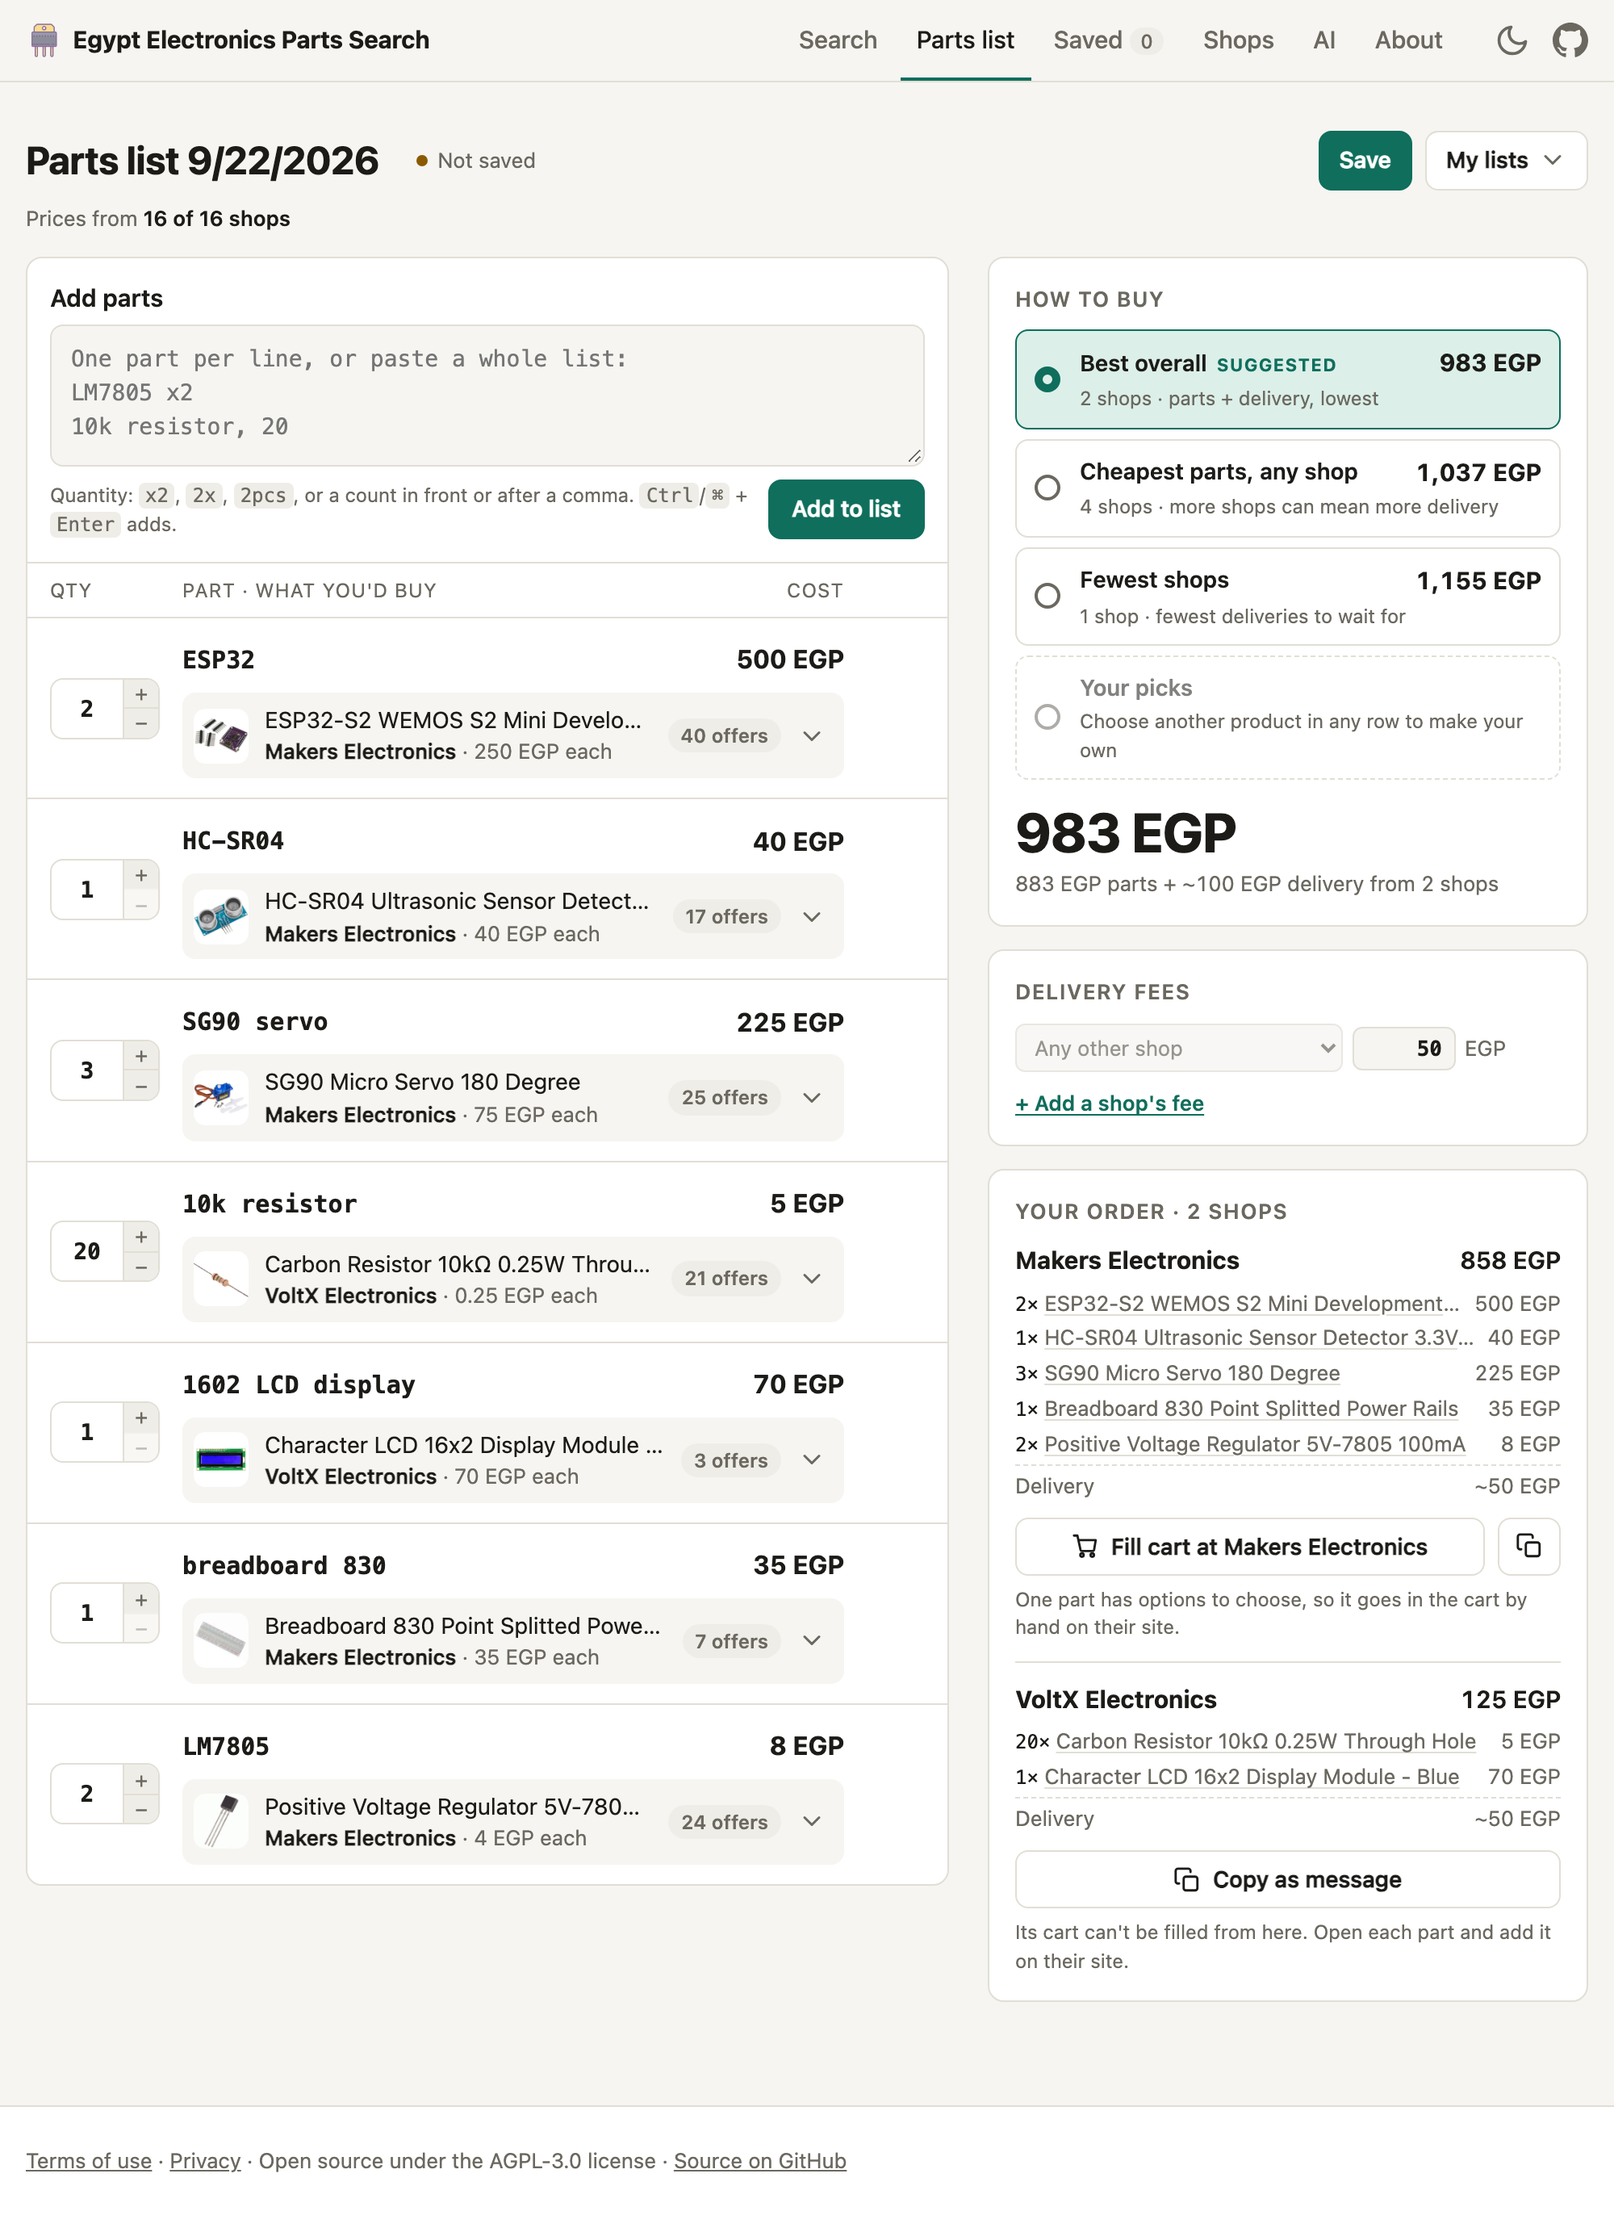
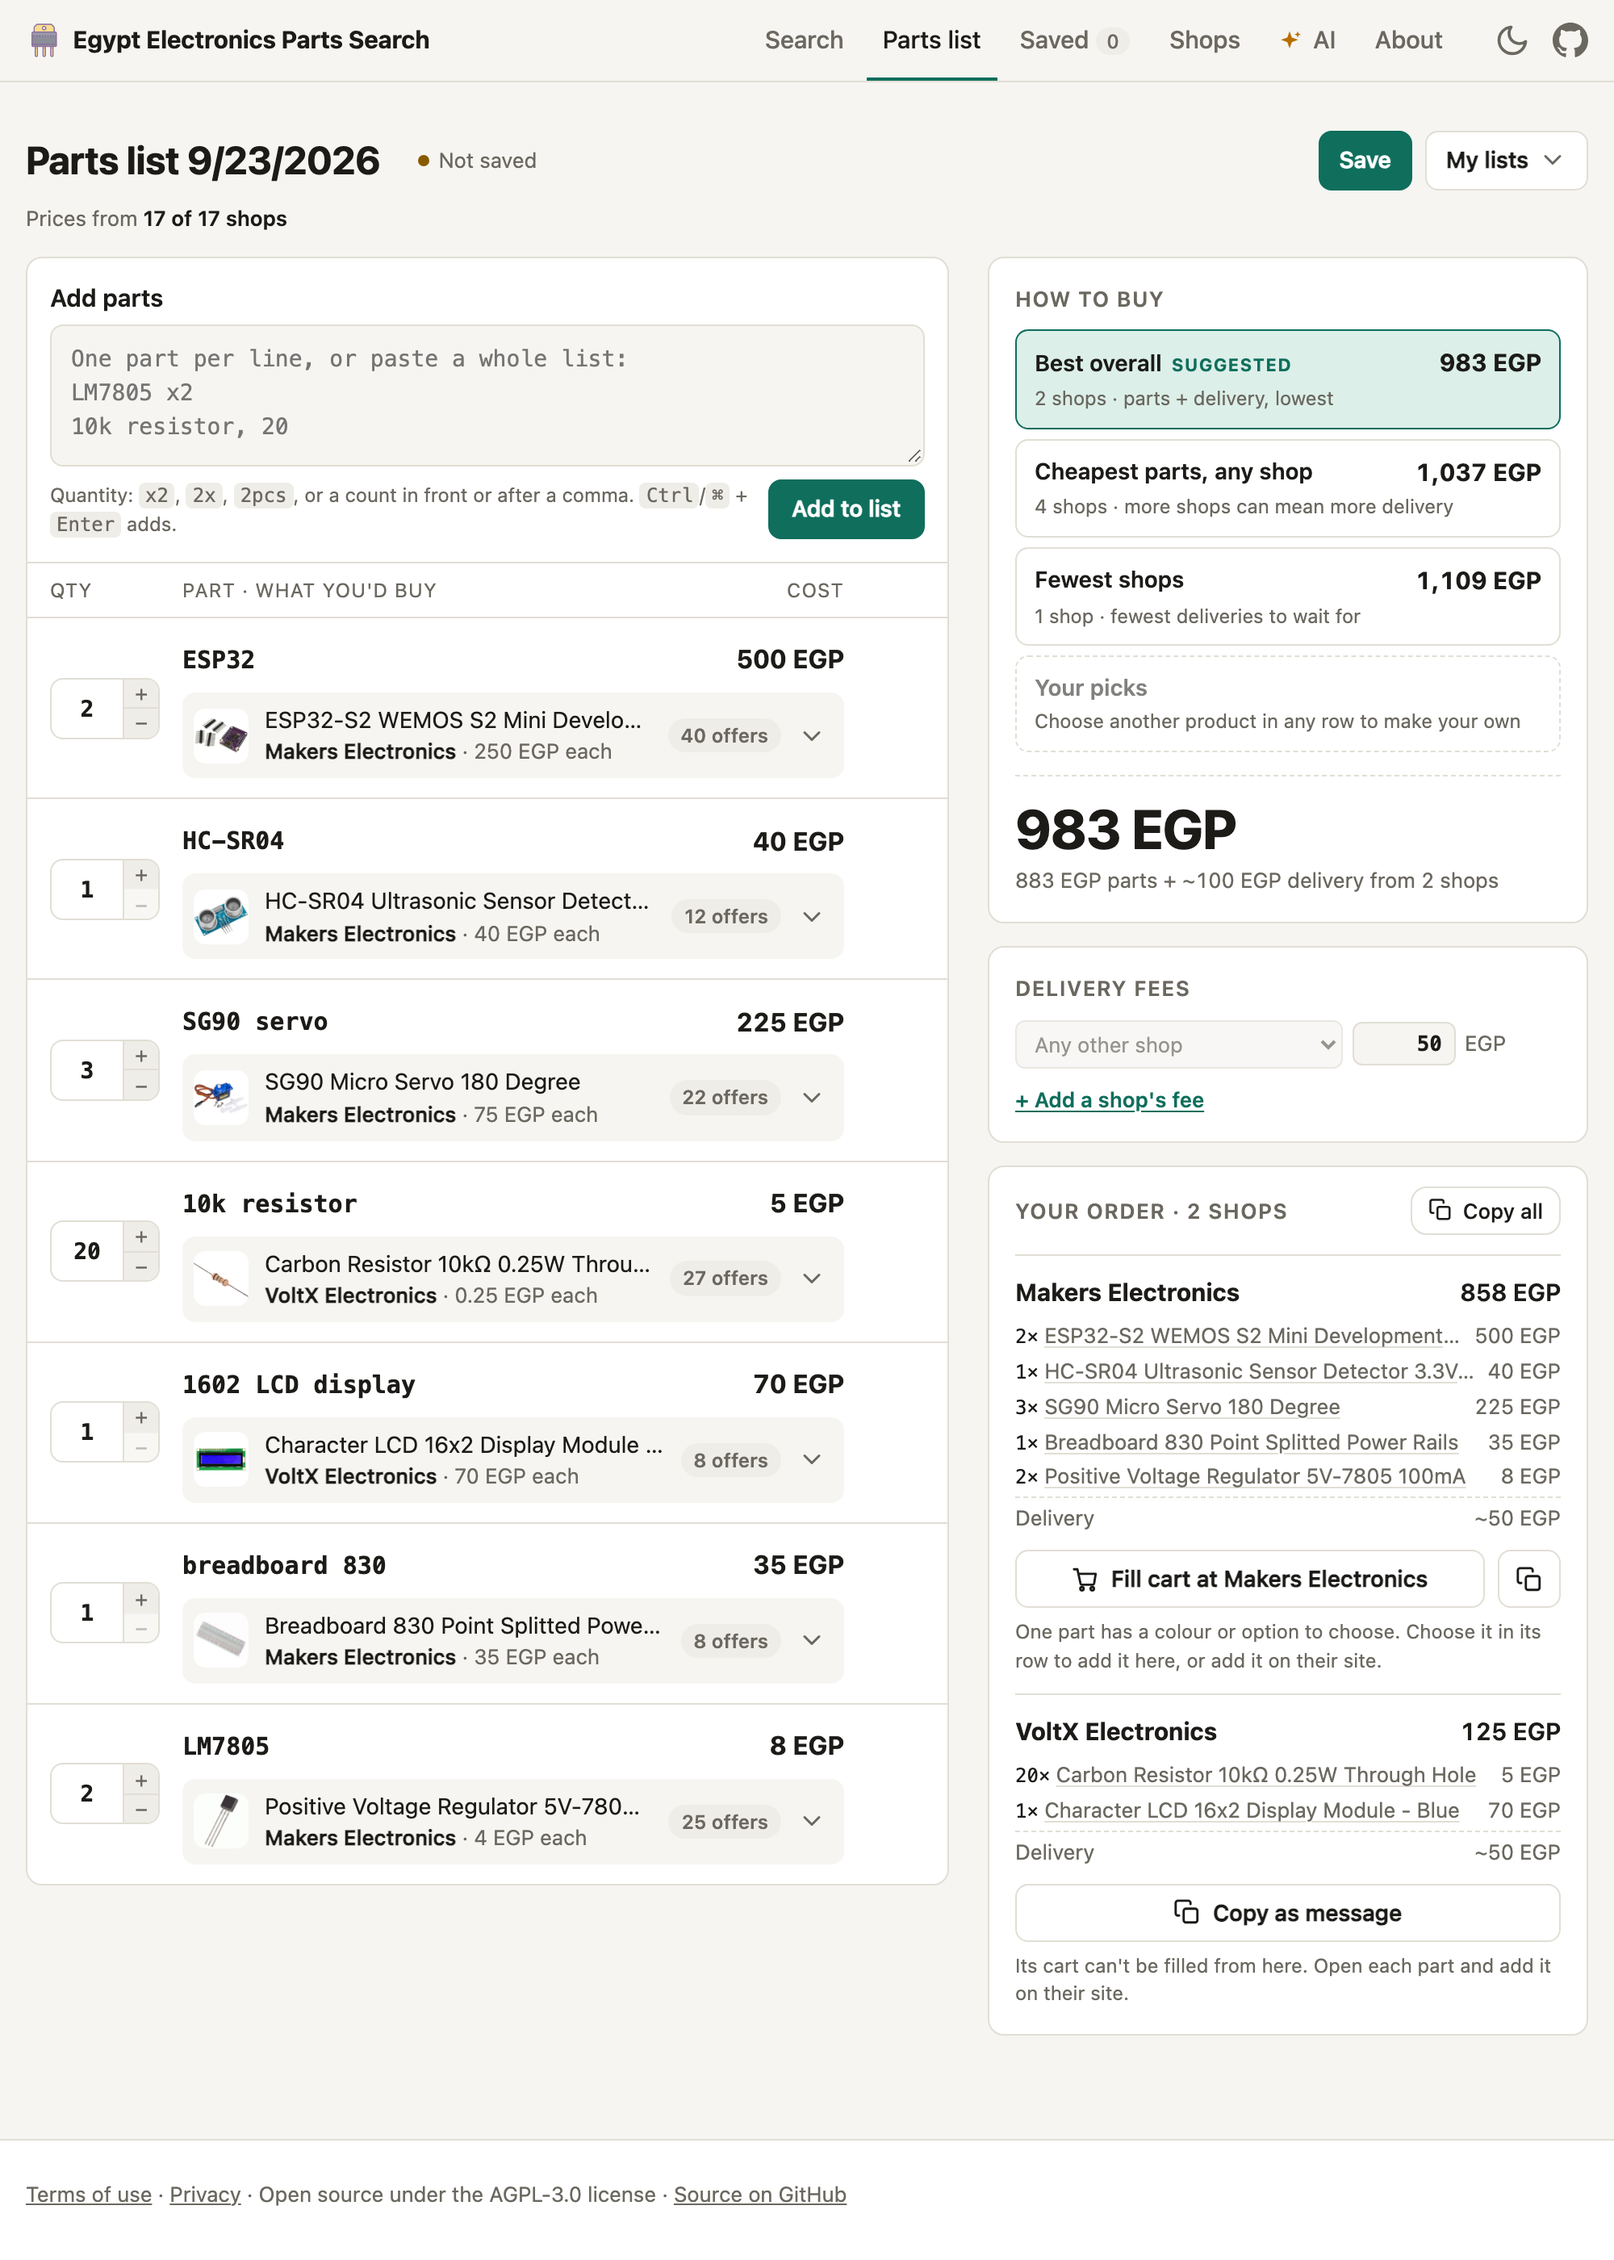
docs: retake the pictures, frame the About drawing
- the screenshots and the link preview say 17 shops, and search for an Arduino Uno
- the preview image's address gets ?v=3, so the old one isn't served from a cache
- the About drawing sits in a dashed box, with its note under it

diff --git a/src/js/ui/about/about-app.jsx b/src/js/ui/about/about-app.jsx
@@ -42,24 +42,28 @@ function Hero() {
 
 // three shops' names for one part, merged into one result; the prices are made up, and say so
 function Names() {
-  return <>
-    <div class="ab-names" role="img" aria-label="Three shop names for the same part become one result">
-      <div class="ab-names-in">
-        <div class="ab-nm"><code>LM7805</code><span>Makers</span></div>
-        <div class="ab-nm"><code>L7805CV</code><span>RAM</span></div>
-        <div class="ab-nm"><code>7805 Regulator 5V</code><span>Future</span></div>
+  return (
+    <figure class="ab-figure">
+      <div class="ab-figure-box">
+        <div class="ab-names" role="img" aria-label="Three shop names for the same part become one result">
+          <div class="ab-names-in">
+            <div class="ab-nm"><code>LM7805</code><span>Makers</span></div>
+            <div class="ab-nm"><code>L7805CV</code><span>RAM</span></div>
+            <div class="ab-nm"><code>7805 Regulator 5V</code><span>Future</span></div>
+          </div>
+          <div class="ab-arrow" aria-hidden="true"><OpenIcon /></div>
+          <div class="ab-merged">
+            <b>LM7805 5V regulator</b>
+            <div class="ab-m-meta">TO-220 · in stock at 3 shops</div>
+            <div class="ab-m-row"><span>RAM Electronics</span><span class="num">7.50 EGP</span></div>
+            <div class="ab-m-row"><span>Makers Electronics</span><span class="num">8 EGP</span></div>
+            <div class="ab-m-row"><span>Future Electronics</span><span class="num">9.50 EGP</span></div>
+          </div>
+        </div>
       </div>
-      <div class="ab-arrow" aria-hidden="true"><OpenIcon /></div>
-      <div class="ab-merged">
-        <b>LM7805 5V regulator</b>
-        <div class="ab-m-meta">TO-220 · in stock at 3 shops</div>
-        <div class="ab-m-row"><span>RAM Electronics</span><span class="num">7.50 EGP</span></div>
-        <div class="ab-m-row"><span>Makers Electronics</span><span class="num">8 EGP</span></div>
-        <div class="ab-m-row"><span>Future Electronics</span><span class="num">9.50 EGP</span></div>
-      </div>
-    </div>
-    <p class="ab-cap">Sample prices.</p>
-  </>;
+      <figcaption class="ab-cap">* Sample prices.</figcaption>
+    </figure>
+  );
 }
 
 const FLOW = [

diff --git a/src/index.html b/src/index.html
@@ -21,16 +21,16 @@
 <meta property="og:title" content="Egypt Electronics Parts Search">
 <meta property="og:description" content="Search 17 Egyptian electronics shops at once and compare in-stock prices for parts like LM7805 and ESP32. Price a whole parts list. Free, no sign-up.">
 <meta property="og:url" content="https://parts.ahmedshaalan.com/">
-<meta property="og:image" content="https://parts.ahmedshaalan.com/og-image.png?v=2">
+<meta property="og:image" content="https://parts.ahmedshaalan.com/og-image.png?v=3">
 <meta property="og:image:width" content="1200">
 <meta property="og:image:height" content="630">
-<meta property="og:image:alt" content="Egypt Electronics Parts Search: a search for LM7805 with prices from all 16 Egyptian electronics shops">
+<meta property="og:image:alt" content="Egypt Electronics Parts Search: a search for Arduino Uno with prices from all 17 Egyptian electronics shops">
 <meta property="og:locale" content="en_US">
 <meta property="og:locale:alternate" content="ar_EG">
 <meta name="twitter:card" content="summary_large_image">
 <meta name="twitter:title" content="Egypt Electronics Parts Search">
 <meta name="twitter:description" content="Search 17 Egyptian electronics shops at once and compare in-stock prices for parts like LM7805 and ESP32. Price a whole parts list. Free, no sign-up.">
-<meta name="twitter:image" content="https://parts.ahmedshaalan.com/og-image.png?v=2">
+<meta name="twitter:image" content="https://parts.ahmedshaalan.com/og-image.png?v=3">
 
 <!-- structured data for search engines -->
 <script type="application/ld+json">
@@ -59,7 +59,7 @@
       "inLanguage": "en",
       "isAccessibleForFree": true,
       "offers": { "@type": "Offer", "price": "0", "priceCurrency": "EGP" },
-      "image": "https://parts.ahmedshaalan.com/og-image.png?v=2",
+      "image": "https://parts.ahmedshaalan.com/og-image.png?v=3",
       "author": { "@id": "https://ahmedshaalan.com/#me" },
       "license": "https://www.gnu.org/licenses/agpl-3.0.html",
       "codeRepository": "https://github.com/AhmedShaalan/Egypt-Electronics-Parts-Search"

diff --git a/src/css/about.css b/src/css/about.css
@@ -22,7 +22,10 @@
 .ab-prose > p { margin: 0 0 12px; font-size: 15.5px; line-height: 1.6; }
 
 /* the same part under different names, merged into one result */
-.ab-names { display: grid; grid-template-columns: minmax(0, 1fr) 40px minmax(0, 1.1fr); gap: 12px; align-items: center; margin: 22px 0 6px; }
+.ab-figure { margin: 22px 0; }
+.ab-figure-box { padding: 16px; border: 1px dashed var(--raised-border);
+  border-radius: var(--radius); background: var(--surface-2); }
+.ab-names { display: grid; grid-template-columns: minmax(0, 1fr) 40px minmax(0, 1.1fr); gap: 12px; align-items: center; }
 .ab-names-in { display: grid; gap: 8px; }
 .ab-nm { background: var(--surface); border: 1px solid var(--border); border-radius: 8px; padding: 8px 12px; display: flex; justify-content: space-between; gap: 10px; font-size: 14px; }
 .ab-nm code { font: 600 13.5px var(--mono); }
@@ -34,7 +37,7 @@
 .ab-m-meta { font-size: 13px; color: var(--muted); margin: 2px 0 10px; }
 .ab-m-row { display: flex; justify-content: space-between; font-size: 13.5px; padding: 5px 0; border-top: 1px solid var(--border); }
 .ab-m-meta + .ab-m-row { font-weight: 650; }
-.ab-prose > p.ab-cap { font-size: 13px; color: var(--muted); margin: 8px 0 0; }
+.ab-cap { font-size: 13px; color: var(--muted); margin: 10px 0 0; }
 
 /* how a search runs */
 .ab-flow { list-style: none; margin: 0; padding: 0; display: grid; grid-template-columns: repeat(4, minmax(0, 1fr)); gap: 12px; counter-reset: f; }

diff --git a/README.md b/README.md
@@ -11,7 +11,7 @@ Find a part, see every in-stock price side by side, and price a whole parts list
 
 `17 shops` · `live prices` · `out-of-stock hidden` · `works on your phone` · `free, no sign-up` · [`MCP for AI assistants`](mcp/README.md) · [`AGPL-3.0 license`](LICENSE)
 
-<img src=".github/screenshots/search.png" alt="Search results for LM7805: 24 matches from all 16 shops, best match first, with the shops and their match counts on the side" width="760">
+<img src=".github/screenshots/search.png" alt="Search results for Arduino Uno: 66 matches at 16 shops, best match first, with every shop and its match count on the side" width="760">
 
 </div>
 
@@ -62,7 +62,7 @@ Egypt Electronics Parts Search asks every shop at once, recognizes those names a
 
 <table>
 <tr>
-<td width="62%"><img src=".github/screenshots/parts-list.png" alt="A seven-part list priced across shops: Best overall 983 EGP from 2 shops with delivery, against 1,037 EGP for the cheapest parts from 4 shops and 1,155 EGP from one shop, with the order in one basket per shop"></td>
+<td width="62%"><img src=".github/screenshots/parts-list.png" alt="A seven-part list priced across shops: Best overall 983 EGP from 2 shops with delivery, against 1,037 EGP for the cheapest parts from 4 shops and 1,109 EGP from one shop, with the order in one basket per shop"></td>
 <td width="38%"><img src=".github/screenshots/phone-dark.png" alt="ESP32 search results on a phone in dark mode"></td>
 </tr>
 <tr>

diff --git a/CHANGELOG.md b/CHANGELOG.md
@@ -66,6 +66,7 @@ What changed on [parts.ahmedshaalan.com](https://parts.ahmedshaalan.com/), newes
 - On the Parts list, a part shows its prices once all but the slowest three shops have answered, and the next part starts. The slow shops are added as they answer, and the part says under it which it's still waiting for. A shop taking its time no longer holds up the whole list.
 - A part added from Search or Saved to the list open on the Parts list tab shows up there too, instead of only in the saved copy, where saving the tab would have dropped it. After adding a result to a list, the other results offer "Add to ‹list›" straight away.
 - Pressing Search again for what's already shown, however it's written, asks the shops again instead of showing the same results.
+- The link preview image, shown when the site is shared, says 17 shops again and searches for an Arduino Uno. It had been left at 16 when the seventeenth shop was added.
 
 ## 1.8.0 · 2026-09-21
 
